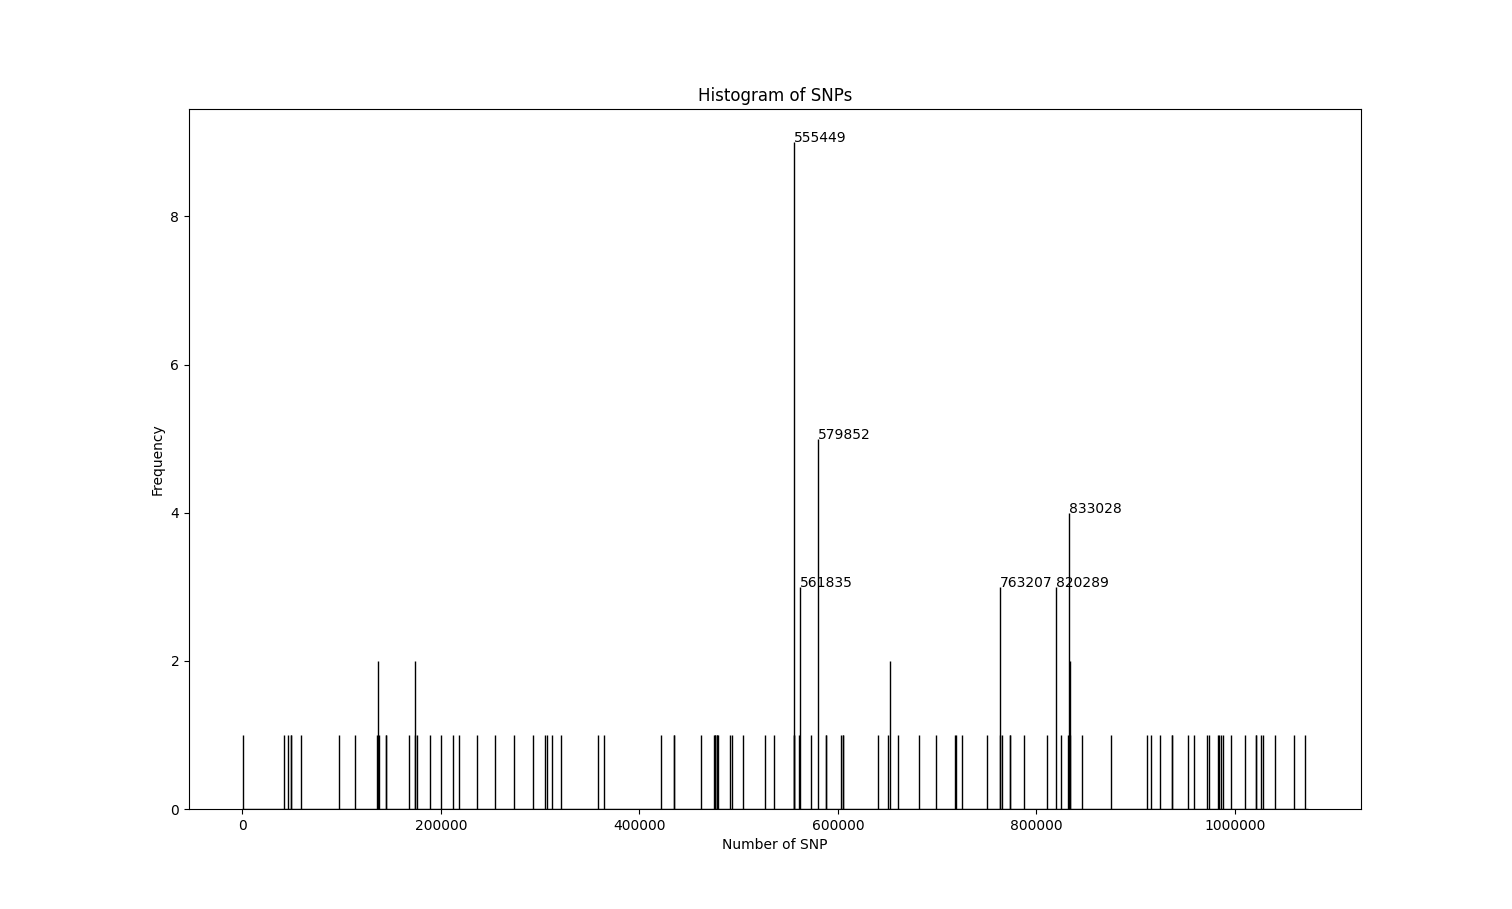
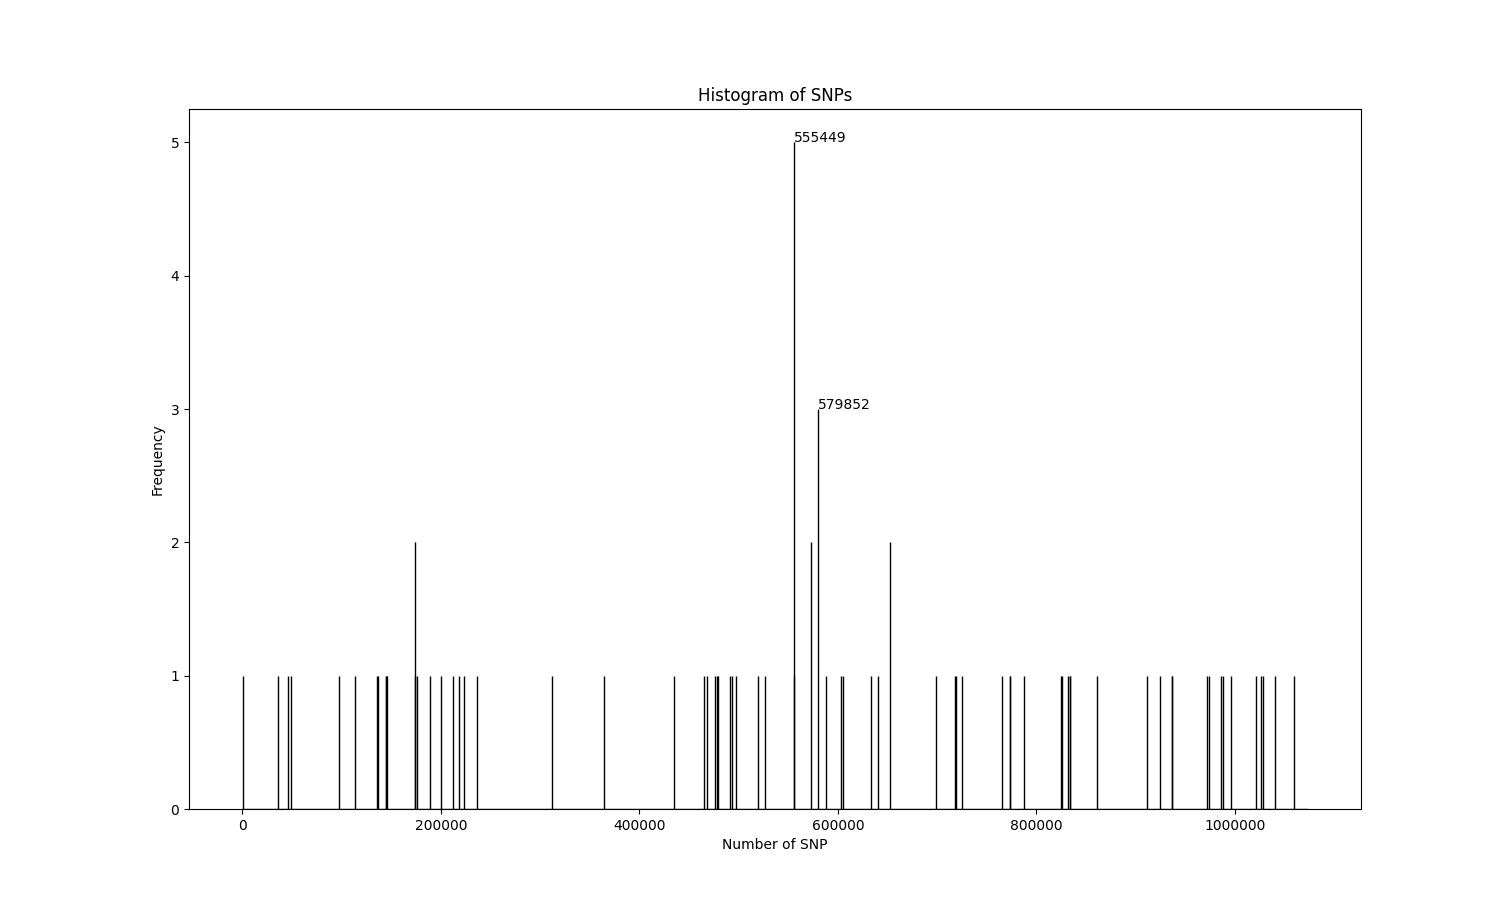
histogram generate in less than second

diff --git a/Histogram/barformat.py b/Histogram/barformat.py
@@ -4,11 +4,13 @@ from my_utils import *
 import matplotlib.pyplot as plt
 import numpy as np
 import os
+import math
 
 # Generate random data for the histogram
 
 n=get_total_snp("../HapMap")
 heights=[0]*n
+shuffle=[0]*n
 
 files=get_files("../", "given", "result", ["Old", "l_", "Shuffle_Pheno", "Showcase"])
 # print(files)
@@ -25,10 +27,40 @@ for e in files:
             heights[e]+=1
     file.close()
 
+files=get_files("../Shuffle_Pheno", "given", "result", )
+# print(files)
+for e in files:
+    file=open(e)
+    lines=file.readlines()
+    for i in range(-4-int(lines[1]),-4):
+        ele= lines[i].split(sep=',')
+        ele[0] =ele[0][1:]
+        ele[-1]=ele[-1][:-2]
+        ele=list( map(int, map(abs,map(float, ele))))
+        for e in ele:
+            shuffle[e]+=1
+    file.close()
 
-plt.bar(list(range(n)), heights)
+def mybars(heights, color, label):
+    first=True
+    for i in range(len(heights)):
+        if heights[i]!=0:
+            if first:
+                plt.vlines(x=i, ymin=0, ymax=heights[i], colors=color, label=label)
+                first=False
+            else:
+                plt.vlines(x=i, ymin=0, ymax=heights[i], colors=color)
+            if heights[i]>2:
+                plt.text(x=i-0.01*len(heights), y=heights[i]+0.15, s=i, fontsize=heights[i]*0.5+3, color=color)
+                
+mybars(heights, "blue", "k-fold")
+mybars(shuffle, "red", "Phenotype Shuffle")
 
+plt.legend(loc="upper left")
 
+# Adding labels and title
+plt.xlabel('Number of SNP')
+plt.ylabel('Frequency')
+plt.title('Histogram of SNPs')
 
-# Display the plot
 plt.show()

diff --git a/Histogram/hist.py b/Histogram/hist.py
@@ -9,7 +9,7 @@ import os
 
 
 data=[]
-files=get_files("../", "given", "result", ["Old", "l_", "Shuffle_Pheno", "Showcase"])
+files=get_files("../k-fold/Res", None,"result",)
 # print(files)
 for e in files:
     print(e)
